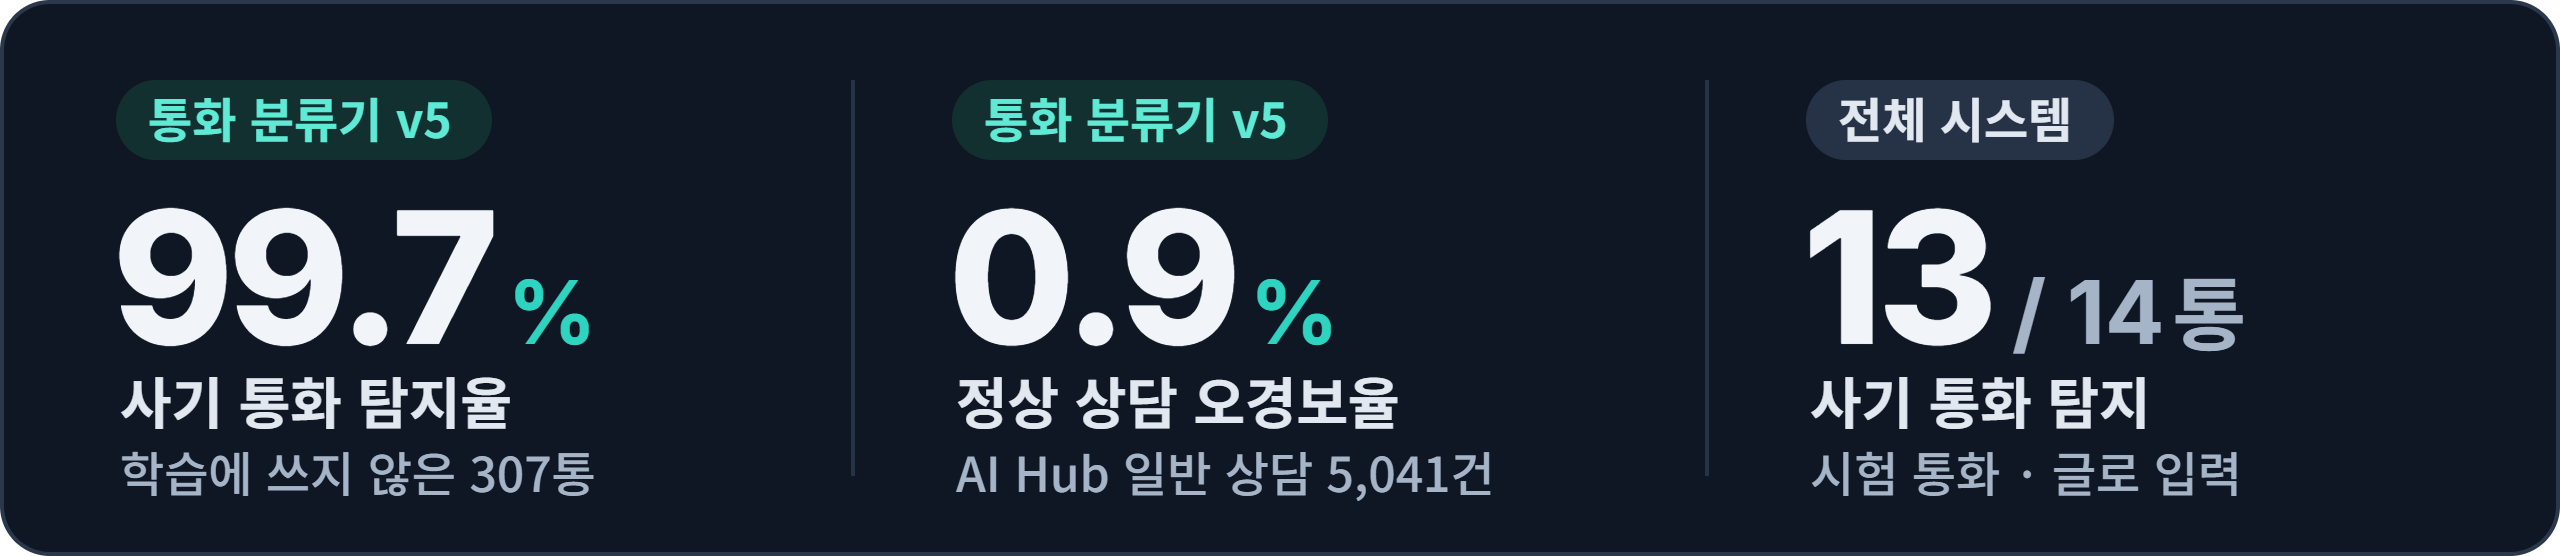
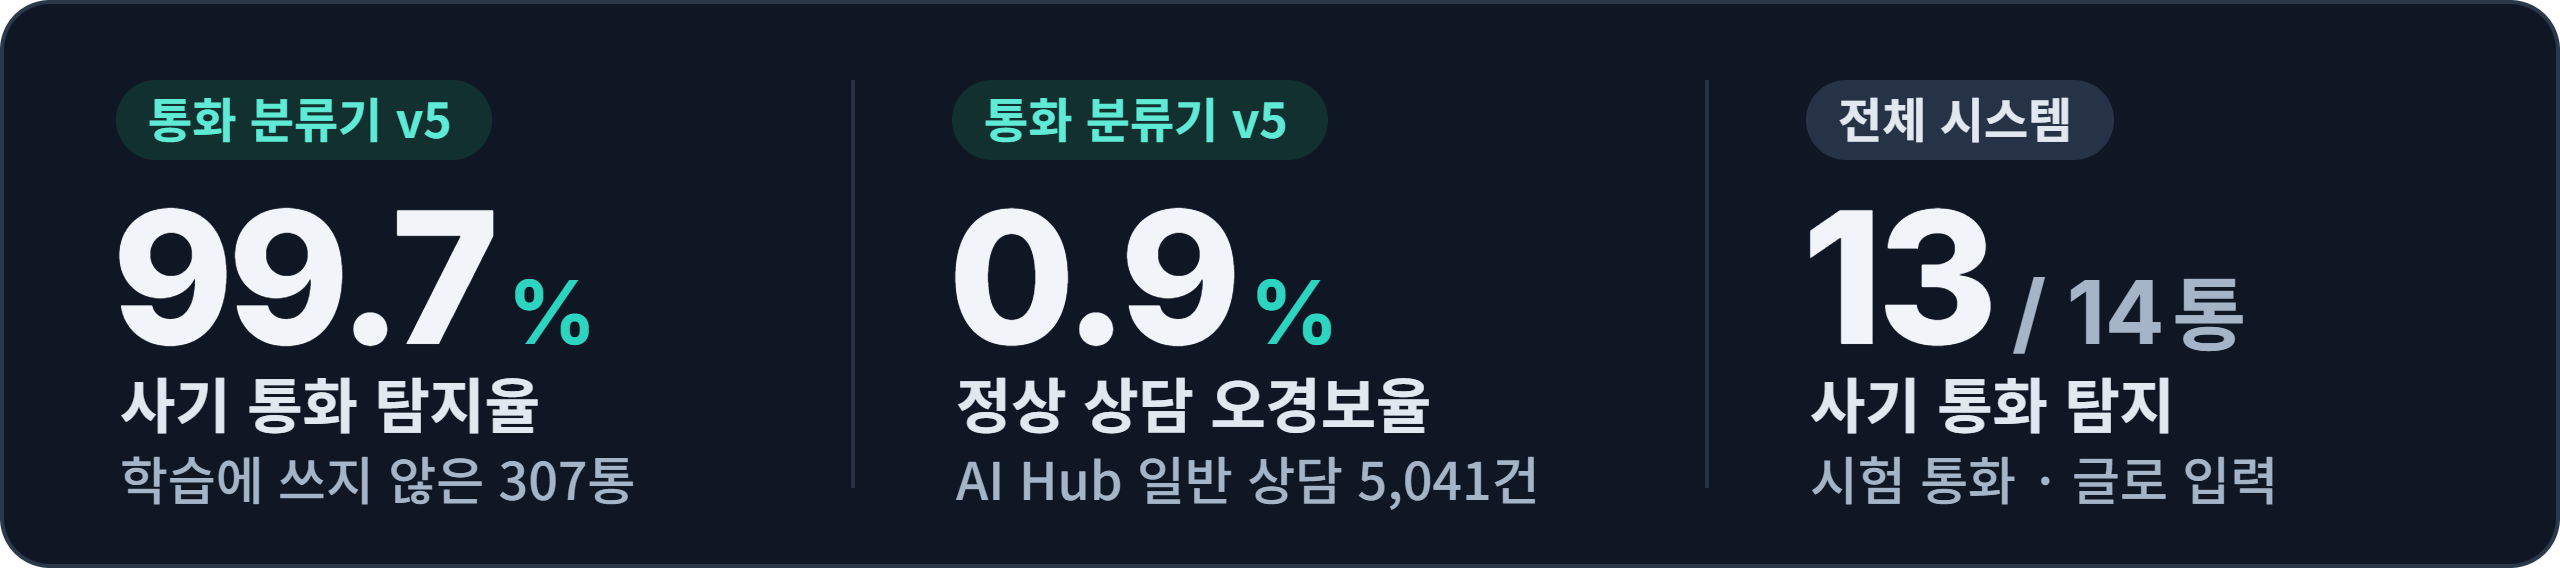
docs: GPT 3차 평가 반영 — 시연 칸을 좁은 화면에 맞게 다시 짜고 문장을 줄임
- 시연: 영상을 글 옆에 띄우고(투명 여백을 넣은 GIF), 기능 요약을 한 문장씩으로 줄이고 '영상에서 일어나는 일' 네 줄을 둠
- 현재 한계를 한두 문장으로 줄이고, 세부 수치(80통 중 6통)는 접은 부분으로 옮김
- 위험도 추이 그림의 높이를 줄이고, 숫자 카드의 설명 글자를 키움
- 표현: 추출·연결·지원, 선정, '학습된 모델 없이 실행하면' 등

diff --git a/README.md b/README.md
@@ -23,28 +23,24 @@
 
 ## 시연
 
-<table>
-<tr>
-<td width="38%" valign="top"><img src="docs/images/readme/demo_phone.gif" width="100%" alt="휴대폰 화면 시연. 첫 문장 뒤 전체 화면 경고가 뜨고, 위험도가 72% 주의에서 86% 위험, 99%로 오르면서 '상대에게 이렇게 되물어 보세요', '지금 바로 전화를 끊으세요', '보호자 알림을 요청했습니다' 카드가 차례로 쌓인다"></td>
-<td valign="top">
-<b>통화 중 · 단계에 맞는 대응 안내</b><br>
-전화를 끊으라는 경고, 공식 대표번호, 상대에게 되물어 볼 질문, 피해 차단 순서를 화면에 띄웁니다.
-<br><br>
-<b>통화가 끝난 뒤 · 피해 확인</b><br>
-피해 여부를 묻고, 고른 답(돈을 보냈어요, 앱을 설치했어요 등)에 맞춰 지급정지와 신고 순서를 안내합니다.
-<br><br>
-<b>수사 지원 · 공통 단서 연결</b><br>
-같은 계좌나 전화번호가 나온 통화를 연결해 보여 주고, 먼저 검토할 통화와 그 근거를 대시보드에 정리합니다.
-<br><br>
-<b>시연 조건</b><br>
-왼쪽은 검찰 사칭 대본으로 진행한 시연입니다(2026-11-18, 통화 분류기 v5). 대본 문장을 글로 서버에 보냈으며, 마이크 입력과 음성 전사는 거치지 않았습니다. 이후의 분류기, 상태 추적기, 대응 에이전트는 실제 앱과 같은 코드로 실행했습니다.
-<br><br>
-마이크 입력과 녹음 파일 분석도 지원합니다. 다만 웹 앱은 휴대폰의 통화 음성을 직접 가져오지 못하고, 기기 마이크로 들어온 소리를 전사합니다.
-<br><br>
+<img src="docs/images/readme/demo_phone.gif" align="right" width="31%" alt="휴대폰 화면 시연. 첫 문장 뒤 전체 화면 경고가 뜨고, 위험도가 72% 주의에서 86% 위험, 99%로 오르면서 '상대에게 이렇게 되물어 보세요', '지금 바로 전화를 끊으세요', '보호자 알림을 요청했습니다' 카드가 차례로 쌓인다">
+
+- **통화 중** — 사기 단계에 맞춰 경고, 공식 대표번호, 상대에게 되물어 볼 질문을 안내합니다.
+- **통화가 끝난 뒤** — 피해 여부를 묻고, 답에 맞춰 지급정지와 신고 순서를 안내합니다.
+- **수사 지원** — 공통 단서가 있는 통화를 연결하고, 먼저 검토할 통화와 그 근거를 정리합니다.
+
+**영상에서 일어나는 일**
+
+1. 첫 문장 직후: 전체 화면 경고가 뜹니다(분류기 단독 판단).
+2. 위험도 72%(주의): 공식 대표번호와 되물어 볼 질문을 안내합니다.
+3. 위험도 86%(위험): "지금 바로 전화를 끊으세요"라고 안내합니다.
+4. 위험도 99%(금전 요구 단계): 보호자 알림을 요청합니다.
+
+**시연 조건** — 검찰 사칭 대본을 글로 입력한 시연입니다(2026-11-18, 통화 분류기 v5). 마이크 입력과 음성 전사는 거치지 않았고, 이후의 분류기, 상태 추적기, 대응 에이전트는 실제 앱과 같은 코드로 실행했습니다. 웹 앱은 휴대폰의 통화 음성을 직접 가져오지 못하며, 기기 마이크로 들어온 소리를 전사합니다.
+
 <sub>발화 사이의 대기 시간은 잘라 냈으며, 재생 속도는 실제와 같습니다. 화면의 이름과 번호는 가상 정보입니다. 'AI 분석 과정' 패널이 함께 보이는 <a href="docs/images/readme/demo_wide.gif">넓은 화면 시연</a>과 통화가 끝난 뒤의 <a href="docs/images/v2/web_result.png">분석 결과 화면</a>도 볼 수 있습니다.</sub>
-</td>
-</tr>
-</table>
+
+<br clear="both">
 
 ## 검증 결과와 한계
 
@@ -58,15 +54,15 @@
 <tr><td valign="top">정상 통화 오경보율</td><td valign="top">피싱 상담(KISA 118)이 섞인 정상 통화 530통 · 통화 중 한 번이라도 경보</td><td nowrap valign="top" align="right">5.5%</td></tr>
 <tr><td colspan="3"><b>전체 시스템</b> · 통화 대본을 글로 입력해 평가</td></tr>
 <tr><td valign="top">사기 통화 탐지</td><td valign="top">조정에 쓰지 않은 시험 통화 중 사기 14통</td><td nowrap valign="top" align="right">13/14</td></tr>
-<tr><td valign="top">정상 상담 경고</td><td valign="top">같은 시험 통화 중 정상 상담 14통 · 분류기가 경보를 낸 어려운 상담만 고름</td><td nowrap valign="top" align="right">4/14</td></tr>
+<tr><td valign="top">정상 상담 경고</td><td valign="top">같은 시험 통화 중 정상 상담 14통 · 분류기가 경보를 낸 어려운 상담만 선정</td><td nowrap valign="top" align="right">4/14</td></tr>
 <tr><td valign="top">시험 통화 통과</td><td valign="top">위 28통 · 판정, 유형, 단계가 모두 맞아야 통과</td><td nowrap valign="top" align="right">20/28</td></tr>
 </table>
 
 **현재 한계**
 
-- **실제 음성으로 잰 전체 평가는 없습니다.** 마이크 입력부터 경고 표시까지의 전체 경로를 실제 음성으로 대규모 평가하지는 않았습니다.
-- **첫 문장에 강한 경고가 뜰 수 있습니다.** 상태 추적기의 첫 판단이 오기 전에는 분류기 점수만으로 위험도를 정하기 때문입니다. 정상 통화의 첫 발화에 이름과 직함 소개를 넣은 시험에서는 80통 중 6통이 첫 세 발화 안에 경보를 냈습니다.
-- **피싱 상담이 섞인 정상 통화에서는 오경보율이 더 높았습니다.** 일반 상담은 0.9%, 피싱 상담이 섞인 통화는 5.5%입니다.
+- **실제 음성으로 전체 경로를 잰 대규모 평가는 아직 없습니다.** 전체 시스템 수치는 통화 대본을 글로 입력해 얻었습니다.
+- **첫 문장에 강한 경고가 뜰 수 있습니다.** 상태 추적기의 첫 판단이 오기 전에는 분류기 점수만으로 위험도를 정하기 때문입니다.
+- **피싱 상담이 섞인 정상 통화에서는 오경보율이 5.5%로 더 높았습니다.**
 - **실제 사기 녹취로 확인한 유형은 기관 사칭과 대출 사기뿐입니다.** 나머지 유형은 공식 사례를 근거로 생성한 통화로 평가했습니다.
 
 평가 방법과 재현 명령, 버전별 비교(v1 → v5)는 [보이스피싱 탐지 성능](docs/tech/detection.md)과 [학습 기록](docs/MODEL_TRAINING_LOG.md)에 있습니다. 모델 후보를 고를 때 쓴 평가 세트와 보고한 평가 세트가 같다는 점을 포함한 한계 전체는 [탐지 성능의 한계](docs/tech/detection.md#한계)에 적었습니다.
@@ -83,6 +79,7 @@
 | 전체 시스템 | 회귀 평가 대본 통과 | 따로 작성한 대본 12개(사기 6 · 정상 6) | 12/12 |
 | 전체 시스템 | 사기 통화 첫 경고 | 탐지한 사기 통화 13통 | 평균 6.5번째 발화 |
 
+- 정상 통화의 첫 발화에 이름과 직함 소개를 넣은 시험에서는 80통 중 6통이 첫 세 발화 안에 경보를 냈습니다(첫 문장 경고의 원인).
 - 상담 녹음은 실제 고객 통화가 아니라 대본을 읽어 녹음한 데이터입니다. 금감원 녹취 258건 중 212건은 같은 녹취를 다른 엔진으로 전사한 글이 학습 데이터에 있어, 99.6%는 처음 보는 사기 통화의 탐지율이 아닙니다.
 - 분류기 단독으로는 회귀 평가 대본 12개 중 카드 배송 사칭 1개를 놓치며(11/12), 일부 유형은 초반 탐지가 이전 모델(v3)보다 늦습니다([유형별 초반 탐지](docs/tech/detection.md#유형별-초반-탐지)).
 - **문자 검사 · 문서 점검** — 문자 분류기 단독은 학습에 쓰지 않은 문자 3,600건에서 정확도 99.4%(F1 99.2%)였습니다. 분류기 40%와 Claude 60%를 합친 문자 검사는 따로 작성한 문자 16건(스미싱 8 · 정상 8)을 모두 맞혔습니다. 문서 점검은 경찰청·금감원·검찰이 공개한 위조 문서와 실제 공문으로 구성한 test 23장에서 정확도 95.7%(위조 14/15 탐지, 오경보 0/8)였습니다.
@@ -100,7 +97,7 @@
   <img src="docs/images/readme/loop.png" width="100%" alt="다섯 단계. 01 감지: 전사와 사기 확률(Whisper, 분류기 v5). 02 판단: 단계와 유형 추적(Claude 상태 추적기). 03 개입: 대응 방법 안내(대응 에이전트). 04 후속 확인: 피해 여부 확인(앱의 확인 질문). 05 개선: 담당자 검토와 반영(수법 카드, 품질 점검). 담당자가 승인한 내용만 다음 통화의 판단에 반영">
 </picture>
 
-아래는 같은 대본으로 실행한 기준 기록의 화면 위험도입니다. 화면 위험도는 `0.3 × 분류기 + 0.7 × 상태 추적기`로 계산하며, 0.70 이상이면 주의, 0.85 이상이면 강한 경고입니다.
+아래 그림은 같은 대본을 따로 실행해 기록한 화면 위험도의 변화입니다. 화면 위험도는 `0.3 × 분류기 + 0.7 × 상태 추적기`로 계산하며, 0.70 이상이면 주의, 0.85 이상이면 강한 경고입니다.
 
 <picture>
   <source media="(prefers-color-scheme: dark)" srcset="docs/images/readme/timeline-dark.png">
@@ -197,7 +194,7 @@
 
 ## 수사 지원
 
-**AI가 통화에서 단서를 뽑아 정리하고, 공통 단서가 있는 통화를 찾아 수사 검토를 돕습니다.** 위험 통화가 들어오면 AI 에이전트가 단서를 추출해 다른 통화와 대조하고, 먼저 검토할 통화와 그 근거, 신고용 요약을 준비합니다. 결과는 수사관 대시보드(`/dashboard`)에서 확인합니다.
+**AI가 통화에서 단서를 추출하고, 공통 단서가 있는 통화를 연결해 수사 검토를 지원합니다.** 결과는 수사관 대시보드(`/dashboard`)에서 확인합니다.
 
 > [!IMPORTANT]
 > 수사 지원 기능은 시연 단계이며, 실제 수사기관에서 쓰거나 검증한 적이 없습니다. 수사관 개인 계정, 통화별 수사 공유 동의, 열람 기록은 구현하지 않았고, 대시보드는 공용 관리 코드로 엽니다. 수법 카드 반영, 모델 재학습과 교체, 신고와 수사 판단은 담당자가 결정합니다([자동 처리와 담당자 결정](docs/investigator.md#자동-처리와-담당자-결정)).
@@ -302,7 +299,7 @@
 
 시연 주소와 접속 코드는 행사 현장에서 QR 코드로 안내합니다. 휴대폰으로 QR 코드를 열고 홈 화면에 추가하면 앱처럼 쓸 수 있습니다(PWA). 넓은 화면에서 열면 앱 옆에 'AI 분석 과정' 패널이 함께 보이고, 수사관 화면은 PC 브라우저에서 `/dashboard`로 엽니다.
 
-학습된 모델과 데이터 원본은 이용 조건 때문에 저장소에 없습니다. 코드만 내려받아 실행하면 통화 분류기 대신 사례 검색 기반 탐지로 동작합니다. 이 문서의 수치를 재현하려면 데이터를 직접 받아 모델을 학습해야 합니다([데이터와 전처리](docs/tech/detection.md#데이터와-전처리), [재현 방법](docs/tech/detection.md#재현-방법)).
+학습된 모델과 데이터 원본은 이용 조건 때문에 저장소에 없습니다. 학습된 모델 없이 실행하면 통화 분류기 대신 사례 검색 기반 탐지로 동작합니다. 이 문서의 수치를 재현하려면 데이터를 직접 받아 모델을 학습해야 합니다([데이터와 전처리](docs/tech/detection.md#데이터와-전처리), [재현 방법](docs/tech/detection.md#재현-방법)).
 
 ### 입력 방식
 

diff --git a/docs/one-call.md b/docs/one-call.md
@@ -23,7 +23,7 @@
 - **환경**: 공개 시연 서버가 아닌 로컬 스테이징 서버에서, 통화 기록을 비운 DB로 실행했습니다. 알림 요청은 n8n 대신 로컬 수신기가 받았고 실제 알림은 나가지 않았습니다.
 - **화면**: 넓은 화면으로 찍어 왼쪽에 앱, 오른쪽에 'AI 분석 과정' 패널이 함께 보입니다. 패널 위쪽의 '음성 → Whisper 전사' 표시는 고정 문구이며 이 시연에서는 거치지 않았습니다.
 
-글자를 받은 뒤의 처리(분류기, 상태 추적기, 대응 에이전트, 알림 전송 요청, 기록 저장)는 실제 서비스와 같은 코드가 맡았습니다. 이 페이지의 화면은 모두 이 실행에서 찍었습니다. 2026-11-15에 분류기 v2로 기록한 이전 내용은 저장소 이력에 있습니다.
+글자를 받은 뒤의 처리(분류기, 상태 추적기, 대응 에이전트, 알림 전송 요청, 기록 저장)는 실제 앱과 같은 코드가 맡았습니다. 이 페이지의 화면은 모두 이 실행에서 찍었습니다. 2026-11-15에 분류기 v2로 기록한 이전 내용은 저장소 이력에 있습니다.
 
 <details>
 <summary>재현 방법</summary>
